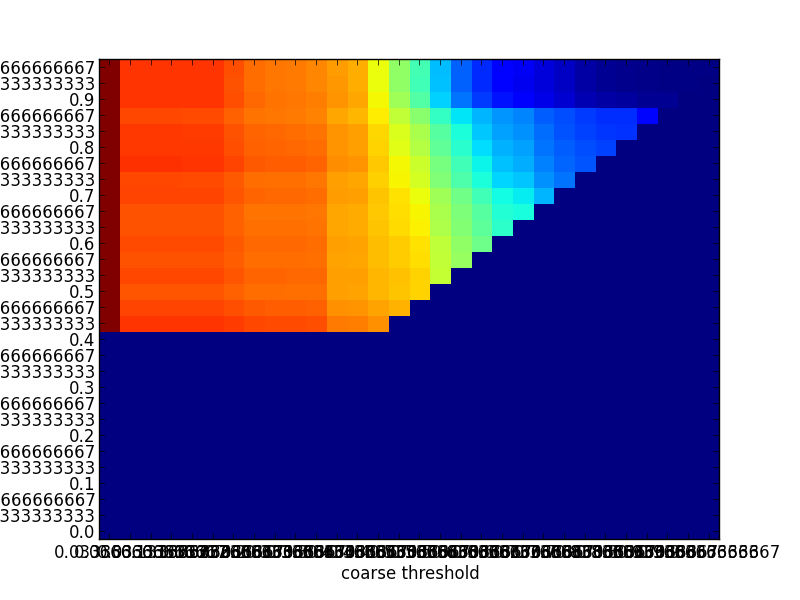
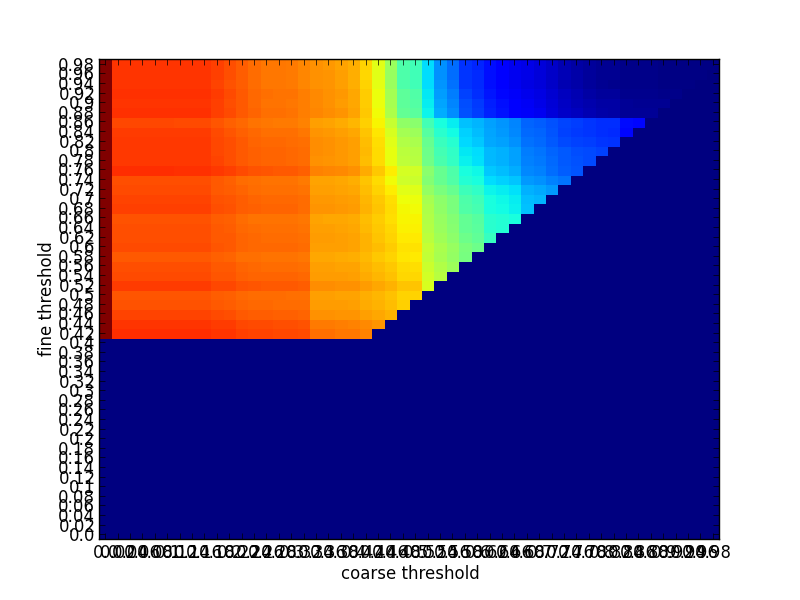
still finding bugs in IsoRank

Changed region(s): [[0.0, 0.09, 0.9688, 0.93], [0.2188, 0.18, 0.2812, 0.21]]

diff --git a/src/edu/mit/csail/ammolite/mcs/IsoRank.java b/src/edu/mit/csail/ammolite/mcs/IsoRank.java
@@ -143,8 +143,11 @@ public class IsoRank{
 		while(true){
 
 			int maxDex = R.getMaxIndex();
-
-			if(R.getEntry(maxDex) > mapping_threshold){
+			
+			if( maxDex < 0){
+				break;
+				
+			} else if(R.getEntry(maxDex) > mapping_threshold){
 				int lilVert = maxDex / n1;
 				int bigVert = maxDex - lilVert*n1;
 				mapping.put(lilVert, bigVert);

diff --git a/scripts/simulateResults.py b/scripts/simulateResults.py
@@ -123,7 +123,7 @@ def getAveNumAmmMatches(coarse, fine, resTable, ammResults):
 
 def getData(smsdResults, ammResults):
 	pts = []
-	k = 100
+	k = 50
 	data = np.zeros((k,k))
 	Y = []
 	X = []
